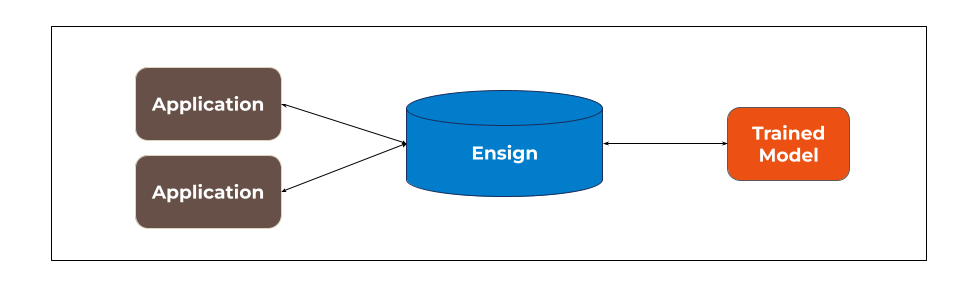
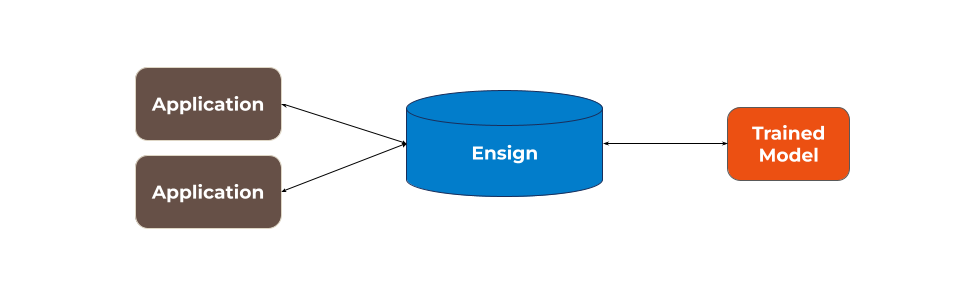
Updates use case mages

Changed region(s): [[0.0622, 0.875, 0.9647, 0.9062], [0.0622, 0.0625, 0.9336, 0.0938]]

diff --git a/static/output.css b/static/output.css
@@ -1413,16 +1413,48 @@ video {
   height: 0.75rem;
 }
 
-.h-\[300px\] {
-  height: 300px;
+.h-\[900px\] {
+  height: 900px;
 }
 
 .h-\[100px\] {
   height: 100px;
 }
 
+.h-\[500px\] {
+  height: 500px;
+}
+
+.h-\[450px\] {
+  height: 450px;
+}
+
+.h-\[300px\] {
+  height: 300px;
+}
+
+.h-\[400px\] {
+  height: 400px;
+}
+
+.h-\[250px\] {
+  height: 250px;
+}
+
+.h-\[200px\] {
+  height: 200px;
+}
+
 .max-h-\[136px\] {
   max-height: 136px;
+}
+
+.max-h-\[450px\] {
+  max-height: 450px;
+}
+
+.max-h-\[400px\] {
+  max-height: 400px;
 }
 
 .min-h-\[480px\] {
@@ -1489,6 +1521,38 @@ video {
   width: 1080px;
 }
 
+.w-\[1500px\] {
+  width: 1500px;
+}
+
+.w-\[2000px\] {
+  width: 2000px;
+}
+
+.w-\[600px\] {
+  width: 600px;
+}
+
+.w-screen {
+  width: 100vw;
+}
+
+.w-\[300px\] {
+  width: 300px;
+}
+
+.min-w-\[600px\] {
+  min-width: 600px;
+}
+
+.min-w-\[300px\] {
+  min-width: 300px;
+}
+
+.min-w-\[350px\] {
+  min-width: 350px;
+}
+
 .max-w-7xl {
   max-width: 80rem;
 }
@@ -1507,6 +1571,14 @@ video {
 
 .max-w-\[180px\] {
   max-width: 180px;
+}
+
+.max-w-full {
+  max-width: 100%;
+}
+
+.max-w-\[600px\] {
+  max-width: 600px;
 }
 
 .flex-1 {
@@ -2964,12 +3036,20 @@ em {
     height: 3.5rem;
   }
 
+  .sm\:h-\[400px\] {
+    height: 400px;
+  }
+
   .sm\:min-h-\[691px\] {
     min-height: 691px;
   }
 
   .sm\:w-3\/5 {
     width: 60%;
+  }
+
+  .sm\:w-\[600px\] {
+    width: 600px;
   }
 
   .sm\:grid-cols-7 {
@@ -3132,12 +3212,36 @@ em {
     height: 280px;
   }
 
+  .md\:h-\[400px\] {
+    height: 400px;
+  }
+
+  .md\:h-\[300px\] {
+    height: 300px;
+  }
+
+  .md\:h-\[200px\] {
+    height: 200px;
+  }
+
+  .md\:h-\[250px\] {
+    height: 250px;
+  }
+
+  .md\:h-\[350px\] {
+    height: 350px;
+  }
+
   .md\:w-1\/2 {
     width: 50%;
   }
 
   .md\:w-1\/3 {
     width: 33.333333%;
+  }
+
+  .md\:w-\[600px\] {
+    width: 600px;
   }
 
   .md\:max-w-sm {
@@ -3305,6 +3409,10 @@ em {
 
   .lg\:h-\[380px\] {
     height: 380px;
+  }
+
+  .lg\:h-\[400px\] {
+    height: 400px;
   }
 
   .lg\:w-1\/2 {

diff --git a/layouts/shortcodes/usecase-image.html b/layouts/shortcodes/usecase-image.html
@@ -1,0 +1,3 @@
+<div class="items-center">
+    <img src='{{ .Get "src" | absURL }}' alt='{{ .Get "alt" }}' class="m-auto md:h-[350px]" />
+  </div>

diff --git a/content/en/ensign/index.md b/content/en/ensign/index.md
@@ -26,7 +26,7 @@ To learn more about this use case, check out [MLOps 201: Asynchronous Inference]
 
 {{% /usecase %}}
 
-{{< figure src="/img/ensign/model_api_use_case.png" alt="A high-level illustation that shows how Ensign can be used to register requests for predictions from multiple applications, to route inputs to the model, and to route model predictions back to the user." >}}
+{{< usecase-image src="/img/ensign/model_api_use_case.png" alt="A high-level illustation that shows how Ensign can be used to register requests for predictions from multiple applications, to route inputs to the model, and to route model predictions back to the user." >}}
 
 {{< /usecase-double >}}
 
@@ -47,7 +47,7 @@ To learn more about this use case, check out this guide to [Streaming NLP Analyt
 
 {{% /usecase %}}
 
-{{< widefigure src="/img/ensign/llm_use_case.png" alt="A high-level illustration of how to use Ensign to ingest training data for transfer learning and to route that training data either to a Hugging Face model trainer or the bootstrapped Hugging Face model, or both." >}}
+{{< usecase-image src="/img/ensign/llm_use_case.png" alt="A high-level illustration of how to use Ensign to ingest training data for transfer learning and to route that training data either to a Hugging Face model trainer or the bootstrapped Hugging Face model, or both." >}}
 
 {{< /usecase-double >}}
 
@@ -68,7 +68,7 @@ Check out more examples of open data sources that can be transformed into real-t
 
 {{% /usecase %}}
 
-{{< widefigure src="/img/ensign/cdc_use_case.png" alt="A high-level illustration of how to transform a static data source into a time-series dataset to be used for machine learning and real-time analytics." >}}
+{{< usecase-image src="/img/ensign/cdc_use_case.png" alt="A high-level illustration of how to transform a static data source into a time-series dataset to be used for machine learning and real-time analytics." >}}
 
 {{< /usecase-double >}}
 
@@ -88,7 +88,7 @@ Whether you wear one hat or all the hats, the right tool can make a world of dif
 {{% vtriple color="#E3E3E1" %}}
 ### Developers
 
-{{< figure src="/img/ensign/otter_developer.png" alt="Otter software developer face wearing glasses and a beret" >}}
+{{< usecase-image src="/img/ensign/otter_developer.png" alt="Otter software developer face wearing glasses and a beret" >}}
 
 Quickly build event-driven APIs to leverage the publish-subscribe model for scalable and reliable microservices.
 
